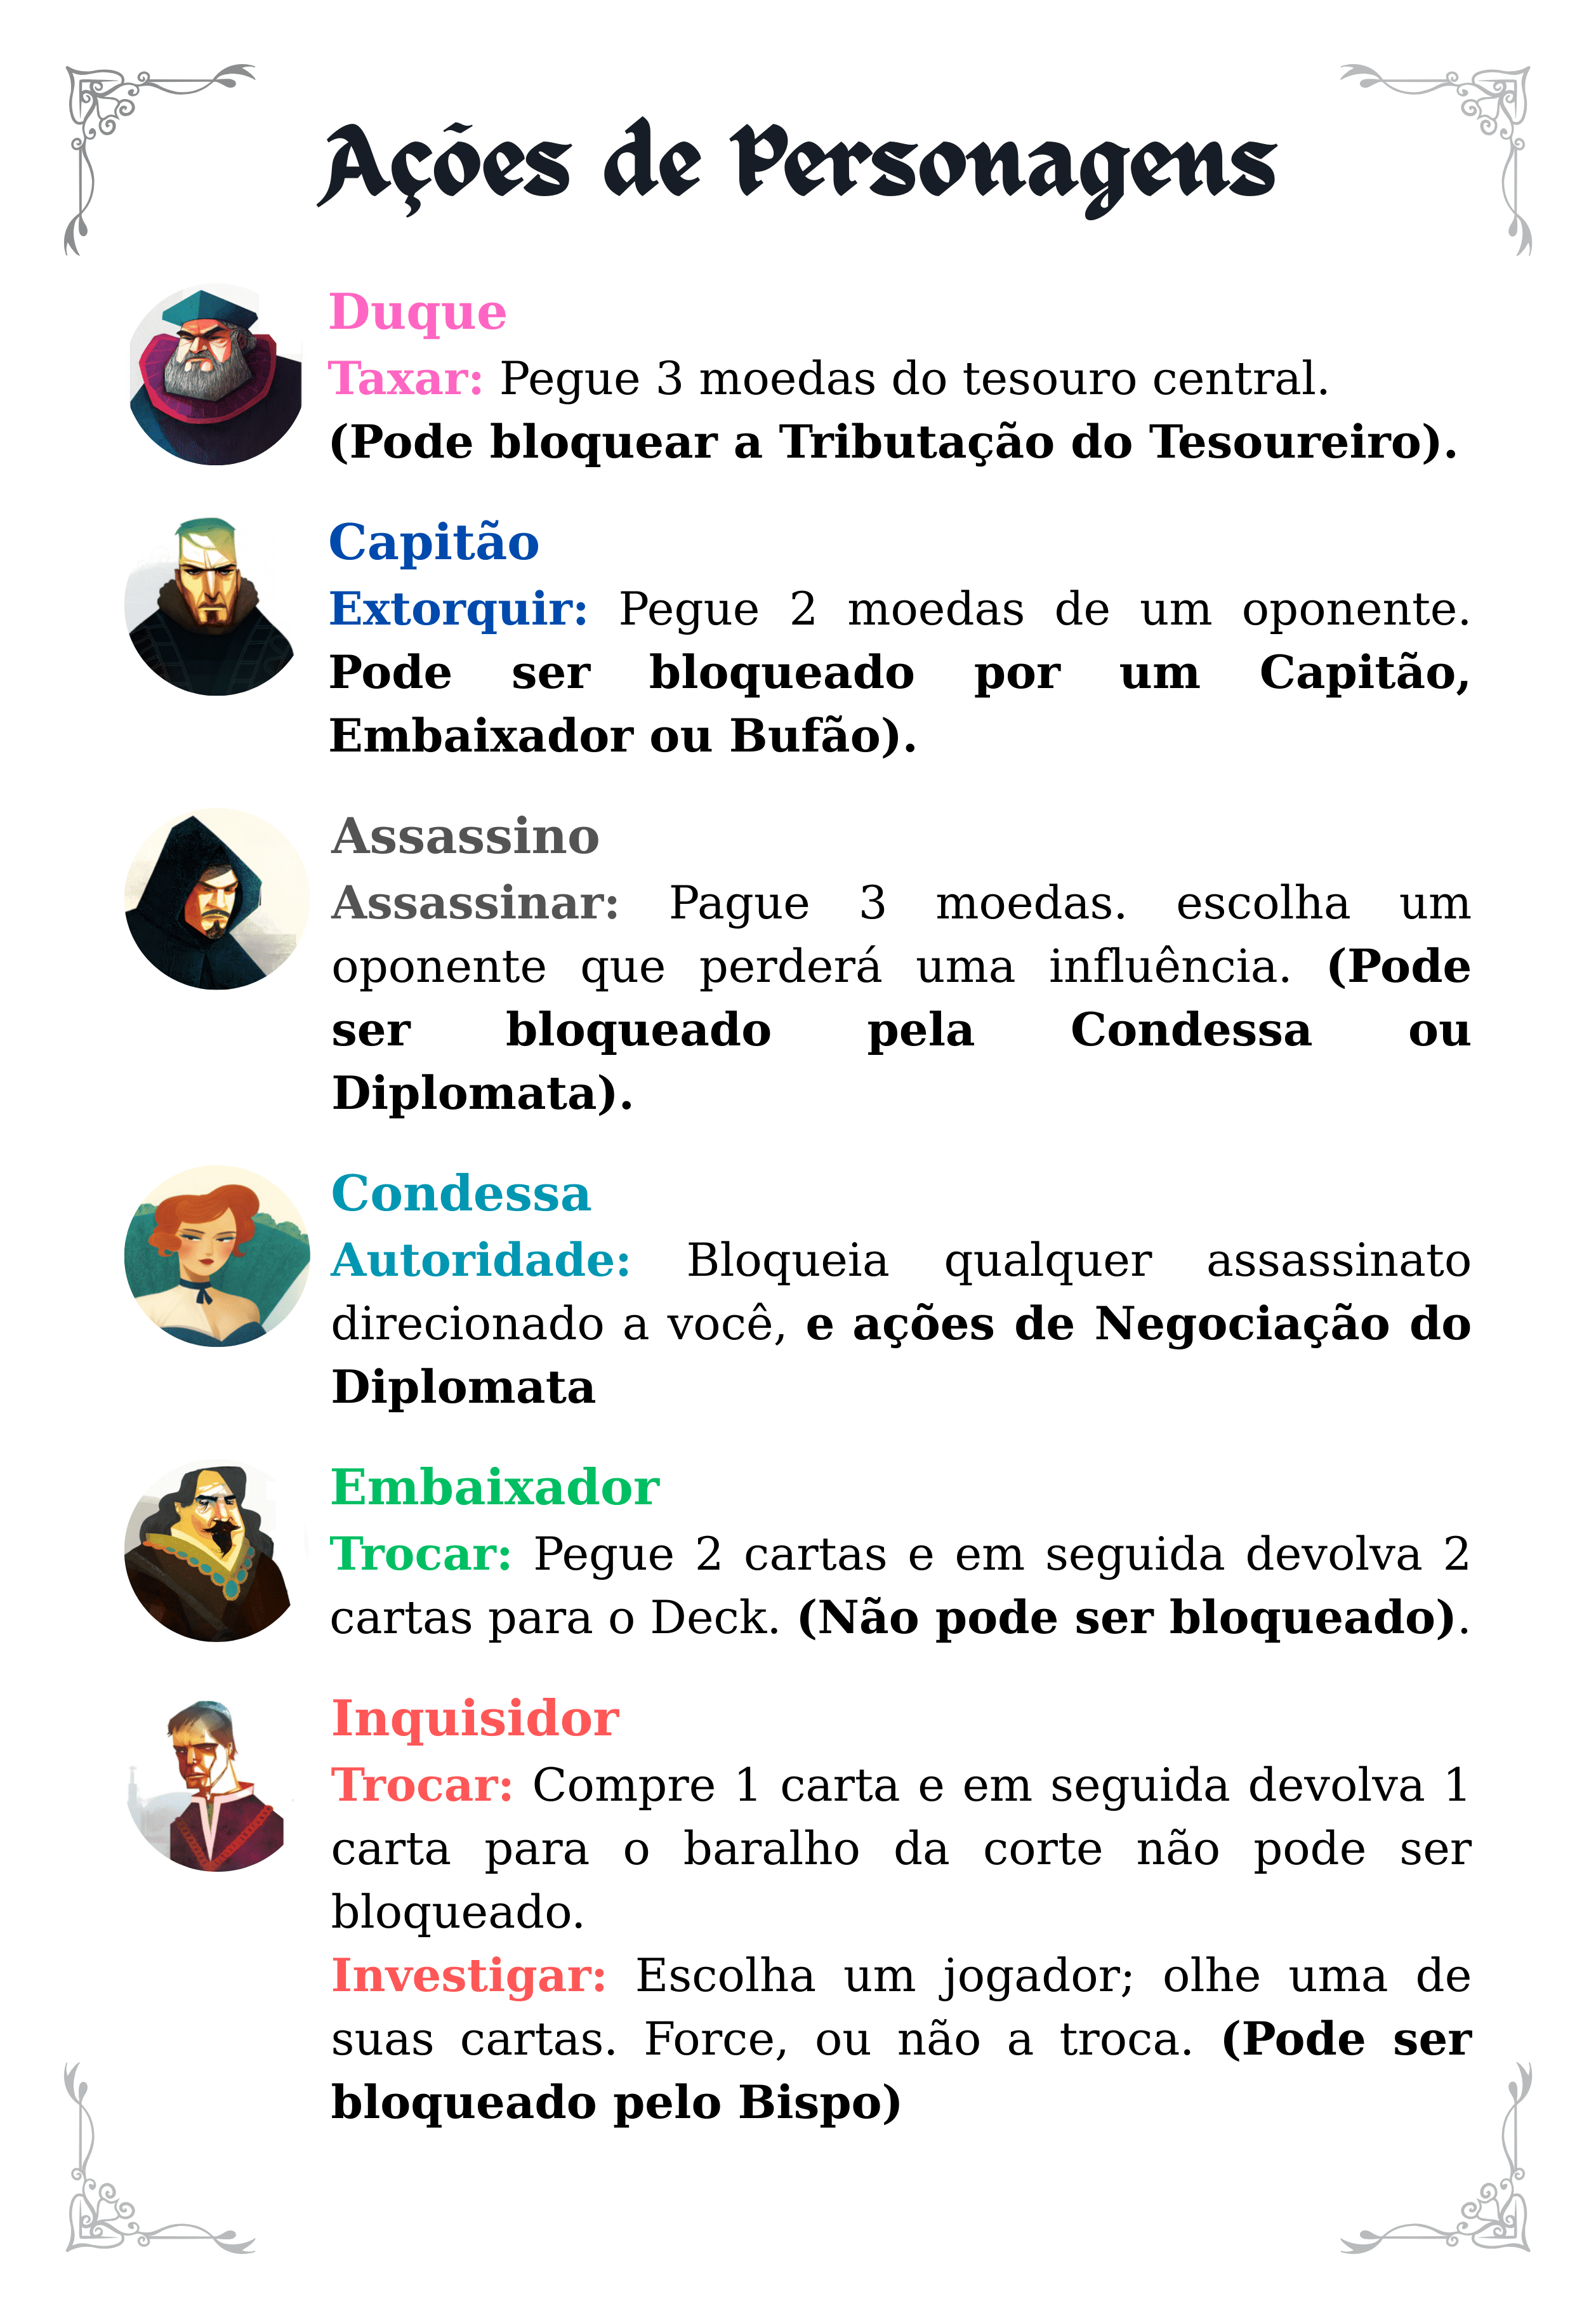
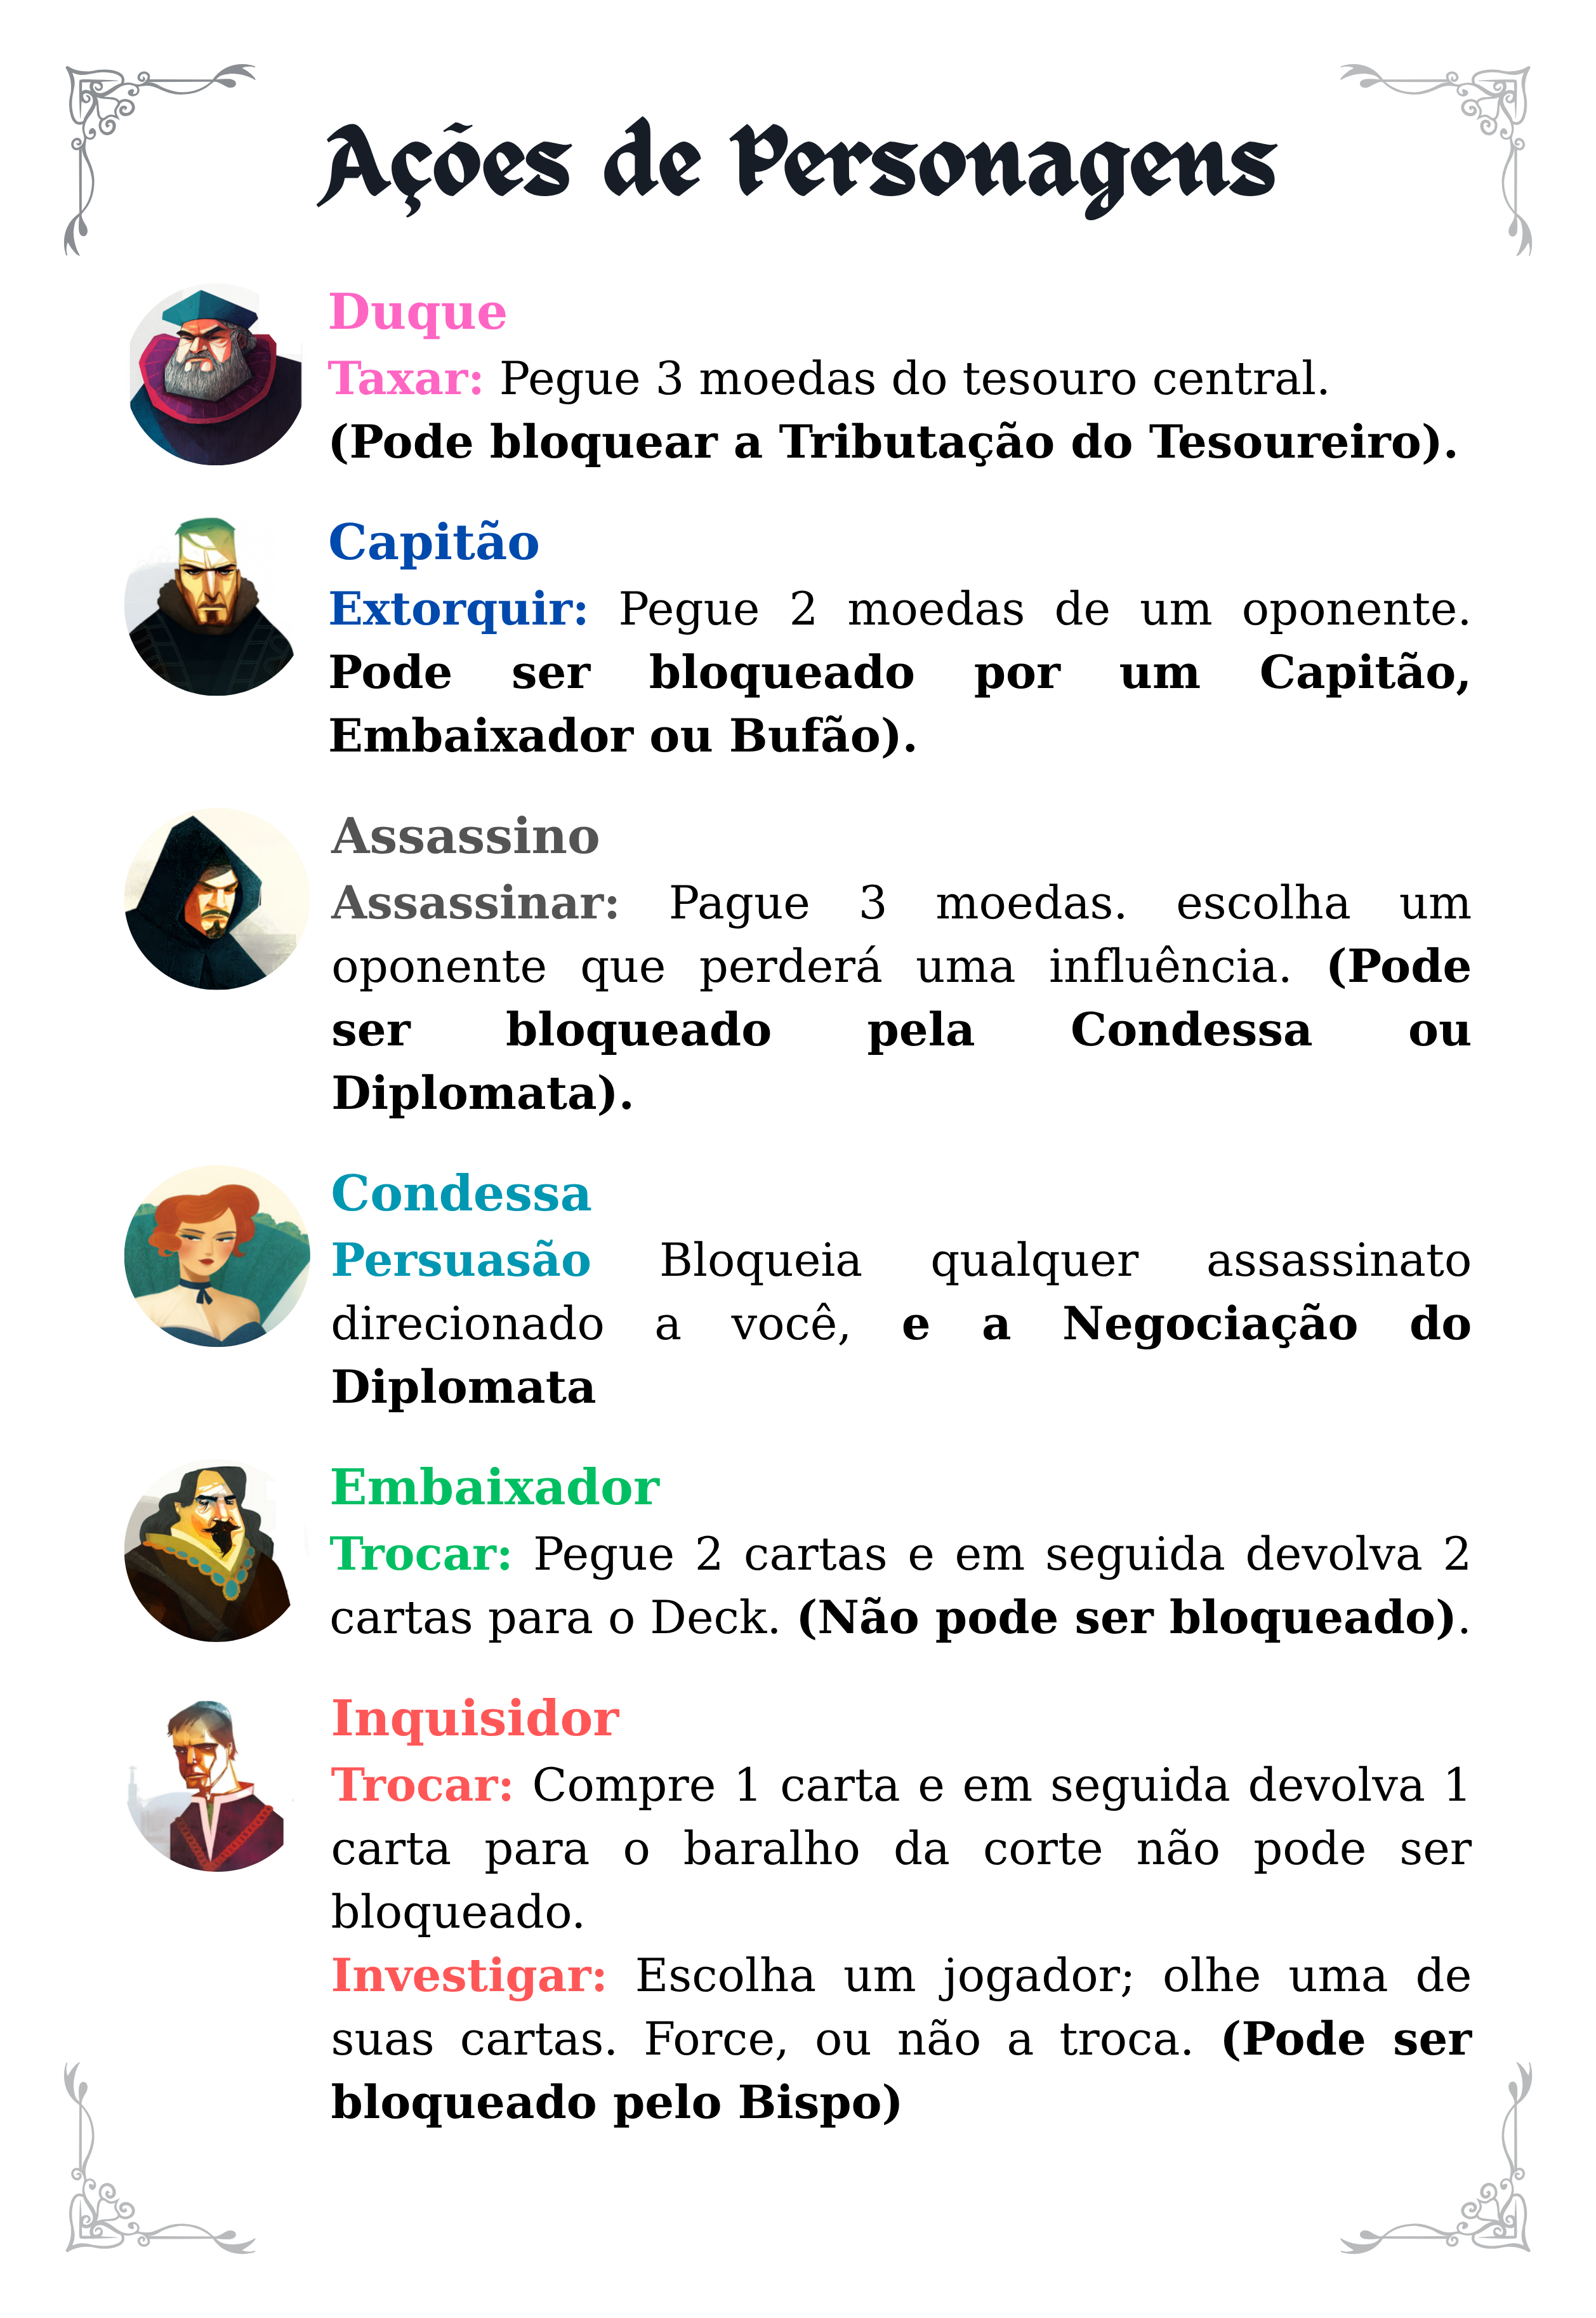
feat(ui): implementa exibição dinâmica das regras da DLC 'Sombras do Asilo'
- Adiciona lógica de detecção para os novos personagens (Pistoleiro, Magnata, etc.) no ui.js.
- Integra a imagem dlc3-actions.jpg ao carrossel do modal de informações.
- Garante que a carta de regras só apareça se houver influências da DLC no deckConfig atual.

- Elimina a linha que definia opacidade 0.5 para jogadores offline no renderAll.
- Resolve inconsistências visuais onde jogadores ativos apareciam como desconectados.
- Mantém a visibilidade constante (opacidade 1) para todos os slots ocupados.

diff --git a/index.html b/index.html
@@ -346,6 +346,38 @@
           <label for="config-vigilante">Vigilante</label>
           <input type="number" id="config-vigilante" data-card="vigilante" min="0" max="10" value="0">
         </li>
+
+
+        <li class="title-dlc-card-config-item">
+          <p>"Sombras do Asilo"</p>
+        </li>
+
+        <li class="card-config-item">
+          <label for="config-pistoleiro">Pistoleiro
+          </label>
+          <input type="number" id="config-pistoleiro" data-card="pistoleiro" min="0" max="10" value="0">
+        </li>
+        <li class="card-config-item">
+          <label for="config-magnata">Magnata</label>
+          <input type="number" id="config-magnata" data-card="magnata" min="0" max="10" value="0">
+        </li>
+        <li class="card-config-item">
+          <label for="config-estrategista">Eestrategista</label>
+          <input type="number" id="config-estrategista" data-card="estrategista" min="0" max="10" value="0">
+        </li>
+        <li class="card-config-item">
+          <label for="config-ladrao">Ladrão</label>
+          <input type="number" id="config-ladrao" data-card="ladrao" min="0" max="10" value="0">
+        </li>
+        <li class="card-config-item">
+          <label for="config-vigarista">Vigarista</label>
+          <input type="number" id="config-vigarista" data-card="vigarista" min="0" max="10" value="0">
+        </li>
+        <li class="card-config-item">
+          <label for="config-xerife">Xerife</label>
+          <input type="number" id="config-xerife" data-card="xerife" min="0" max="10" value="0">
+        </li>
+
       </ul>
       <button id="applyDeckConfigBtn">Aplicar e Resetar Jogo</button>
     </div>
@@ -404,7 +436,7 @@
       <button id="closeSpectatorModalBtn" class="close-btn">&times;</button>
       <h2 style="margin-bottom: 16px;">Quem deseja assistir?</h2>
       <div id="spectator-list" class="spectator-list">
-        </div>
+      </div>
     </div>
   </div>
 
@@ -415,7 +447,7 @@
       <h2 style="margin-bottom: 10px;">Modo Espectador</h2>
       <p class="muted" style="margin-bottom: 20px;">Escolha um jogador para assistir:</p>
       <div id="spectator-list" class="spectator-list" style="display: flex; flex-direction: column; gap: 10px;">
-        </div>
+      </div>
     </div>
   </div>
 
@@ -444,7 +476,7 @@
   <script src="js/gameState.js" defer></script>
   <script src="js/ui.js" defer></script>
 
-  
+
 
 </body>
 

diff --git a/js/ui.js b/js/ui.js
@@ -179,7 +179,9 @@ function renderAll() {
 
     avatarImg.src = player.photo || 'img/coup.png';
     nameTxt.textContent = player.name || `Jogador ${pid}`;
-    playerEl.style.opacity = player.online ? '1' : '0.5';
+
+    // remove alteração de opacidade por status online
+    // playerEl.style.opacity = player.online ? '1' : '0.5';
 
     const religionEl = playerEl.querySelector('.religion-status');
     if (religionEl) {
@@ -442,28 +444,48 @@ function setupUI() {
   let currentRuleImages = [];
   let currentRuleIndex = 0;
 
+
+
+
+  /**
+   * Gerencia a fila de imagens das cartas de ajuda (regras) baseada na composição atual do deck.
+   * Verifica a presença de personagens de diferentes DLCs (Promo, Revolução e Sombras do Asilo)
+   * para exibir apenas os guias de ações pertinentes aos jogadores na partida.
+   */
+
   function calculateRuleImages() {
     const config = localGameState.deckConfig || {};
     let images = [];
+
+    // Definição dos grupos de cartas
+    const promoChars = ['bufao', 'benfeitor', 'burgues', 'burocrata'];
+    const revolutionChars = ['marionetista', 'diplomata', 'mercenario', 'bispo', 'tesoureiro_da_coroa', 'vigilante'];
+    const shadowsChars = ['pistoleiro', 'magnata', 'estrategista', 'ladrao', 'vigarista', 'xerife'];
+
+    // Verifica se há alguma carta de cada expansão no set atual
     const hasPromo = promoChars.some(card => (config[card] || 0) > 0);
     const hasRevolution = revolutionChars.some(card => (config[card] || 0) > 0);
+    const hasShadows = shadowsChars.some(card => (config[card] || 0) > 0);
 
+    // 1. Carta Base (Alternativa se houver Revolução)
     if (hasRevolution) {
       images.push('img/front-actions-alternative.png');
     } else {
       images.push('img/front-actions.png');
     }
 
-    if (hasPromo) {
-      images.push('img/dlc-actions.png');
-    }
-    if (hasRevolution) {
-      images.push('img/dlc2-actions.png');
-    }
+    // 2. Adiciona as cartas de regras das DLCs detectadas
+    if (hasPromo) images.push('img/dlc-actions.png');
+    if (hasRevolution) images.push('img/dlc2-actions.png');
+    if (hasShadows) images.push('img/dlc3-actions.png'); // Nova carta de regras
+
+    // 3. Verso das cartas de ajuda
     images.push('img/back-actions.png');
 
     return images;
   }
+
+
 
   if (infoBtn && infoModal) {
     infoBtn.onclick = () => {

diff --git a/js/rules.js b/js/rules.js
@@ -18,15 +18,27 @@ const CARD_TYPES = [
   { type: 'bispo', color: '#0db4c3' },
   { type: 'tesoureiro_da_coroa', color: '#f9c700' },
   { type: 'diplomata', color: '#001aff' },
-  { type: 'marionetista', color: '#4d047e' }
+  { type: 'marionetista', color: '#4d047e' },
+
+  { type: 'pistoleiro', color: '#ff0000' },
+  { type: 'magnata', color: '#733d0b' },
+  { type: 'estrategista', color: '#3737dc' },
+  { type: 'ladrao', color: '#047e4d' },
+  { type: 'vigarista', color: '#ff8000' },
+  { type: 'xerife', color: '#0b43fb' },
 ];
 
+// --- NOVAS CARTAS: SOMBRAS DO ASILO ---
 function createDefaultDeckConfig() {
   return {
     'duque': 5, 'capitao': 5, 'assassino': 5, 'embaixador': 5, 'condessa': 5,
     'inquisidor': 5, 'benfeitor': 0, 'bufao': 0, 'burgues': 0, 'burocrata': 0,
     'vigilante': 0, 'mercenario': 0, 'bispo': 0, 'tesoureiro_da_coroa': 0,
-    'diplomata': 0, 'marionetista': 0
+    'diplomata': 0, 'marionetista': 0,
+
+    'pistoleiro': 0, 'magnata': 0,
+    'estrategista': 0, 'ladrao': 0,
+    'vigarista': 0, 'xerife': 0
   };
 }
 

diff --git a/css/style.css b/css/style.css
@@ -545,7 +545,7 @@ header p {
     align-items: center;
     justify-content: center;
     line-height: 1;
-    font-size: 16px;
+    font-size: 24px;
 }
 
 .asylum-points .score {
@@ -685,7 +685,7 @@ body.hide-religion .decks-wrapper {
     align-items: center;
     justify-content: center;
     line-height: 1;
-    font-size: 16px;
+    font-size: 24px;
 }
 
 .points .score {
@@ -877,6 +877,8 @@ body.hide-religion .decks-wrapper {
     text-align: center;
     font-size: 20px;
     font-weight: bold;
+    margin-top: 16px;
+    margin-bottom: 16px;
 }
 
 .card-config-item {
@@ -1036,7 +1038,7 @@ body.hide-religion .decks-wrapper {
     .points .minus {
         width: 16px;
         height: 16px;
-        font-size: 12px;
+        font-size: 20px;
     }
 
     .religion-status {
@@ -1090,7 +1092,7 @@ body.hide-religion .decks-wrapper {
     .asylum-points button {
         width: 16px;
         height: 16px;
-        font-size: 10px;
+        font-size: 20px;
     }
 
     .deck {